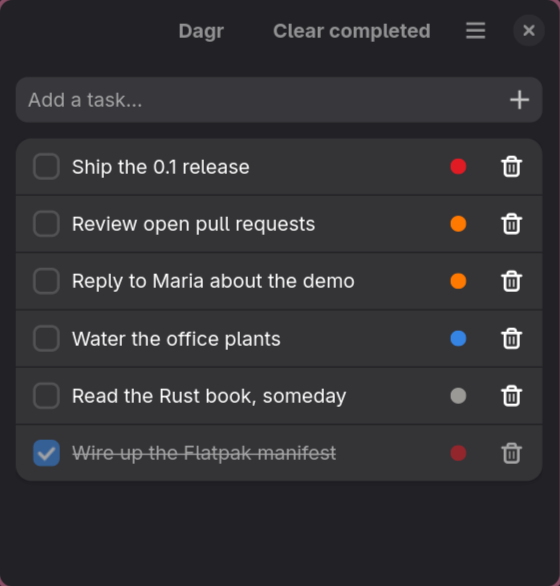
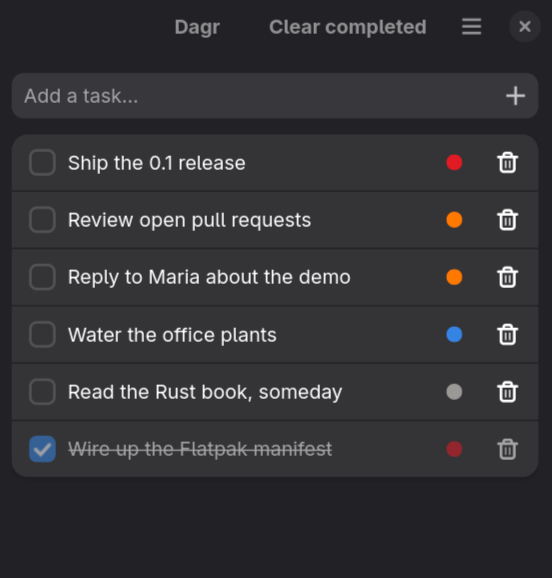
chose: SEO?

diff --git a/site/index.html b/site/index.html
@@ -3,25 +3,32 @@
 <head>
 <meta charset="UTF-8">
 <meta name="viewport" content="width=device-width, initial-scale=1.0">
-<title>dagr — a tiny, AI-scriptable task list for Linux</title>
-<meta name="description" content="Dagr is a small priority-ordered task list for Linux built with GTK 4 and libadwaita. Everything one click away, and a built-in MCP server so an AI assistant can do anything you can.">
+<title>dagr — a Linux task list with a built-in MCP server</title>
+<meta name="description" content="Dagr is a small, priority-ordered to-do app for Linux, built with GTK 4 and libadwaita. It ships a Model Context Protocol (MCP) server, so Claude, Cursor, Zed or any MCP client can read and change your tasks — add, complete, label and re-prioritise — while the window stays in sync.">
 <meta name="keywords" content="dagr, task list, todo, linux, gtk4, libadwaita, rust, gnome, mcp, model context protocol, ai tasks">
 
 <link rel="canonical" href="https://dagr.bles.nu/">
 <link rel="icon" type="image/svg+xml" href="favicon.svg">
-<link rel="apple-touch-icon" href="favicon.svg">
+<link rel="apple-touch-icon" href="apple-touch-icon.png">
 
 <meta name="theme-color" content="#0b0a1a">
 
-<meta property="og:title" content="dagr — a tiny, AI-scriptable task list for Linux">
+<meta property="og:title" content="dagr — a Linux task list with a built-in MCP server">
 <meta property="og:description" content="Priority-ordered, one click for everything, and a built-in MCP server so an assistant can do anything you can.">
 <meta property="og:url" content="https://dagr.bles.nu/">
 <meta property="og:site_name" content="dagr">
 <meta property="og:type" content="website">
+<meta property="og:locale" content="en">
+<meta property="og:image" content="https://dagr.bles.nu/share.png">
+<meta property="og:image:width" content="1200">
+<meta property="og:image:height" content="630">
+<meta property="og:image:alt" content="The Dagr window listing six tasks with colored priority dots, beside the dagr wordmark">
 
 <meta name="twitter:card" content="summary_large_image">
-<meta name="twitter:title" content="dagr — a tiny, AI-scriptable task list for Linux">
+<meta name="twitter:title" content="dagr — a Linux task list with a built-in MCP server">
 <meta name="twitter:description" content="Priority-ordered, one click for everything, and a built-in MCP server so an assistant can do anything you can.">
+<meta name="twitter:image" content="https://dagr.bles.nu/share.png">
+<meta name="twitter:image:alt" content="The Dagr window listing six tasks with colored priority dots, beside the dagr wordmark">
 
 <script type="application/ld+json">
 {
@@ -32,6 +39,21 @@
   "url": "https://dagr.bles.nu/",
   "applicationCategory": "Productivity",
   "operatingSystem": "Linux",
+  "applicationSubCategory": "Task management",
+  "softwareVersion": "0.2.0",
+  "isAccessibleForFree": true,
+  "inLanguage": ["en", "nl"],
+  "screenshot": "https://dagr.bles.nu/share.png",
+  "downloadUrl": "https://github.com/alebles/dagr/releases/latest",
+  "featureList": [
+    "Priority-ordered task list with user-defined levels",
+    "Optional colored labels, several per task",
+    "Optional task lists with a sidebar",
+    "Built-in MCP server for AI assistants",
+    "Unix socket for desktop scripting",
+    "English and Dutch",
+    "Local SQLite storage, no account and no cloud"
+  ],
   "license": "https://opensource.org/license/MIT",
   "codeRepository": "https://github.com/alebles/dagr",
   "offers": { "@type": "Offer", "price": "0", "priceCurrency": "USD" },
@@ -236,6 +258,10 @@
     transition: border-color 0.15s ease, box-shadow 0.15s ease, transform 0.15s ease;
   }
   .card:hover { border-left-color: var(--cyan); box-shadow: var(--glow-cyan); transform: translateY(-2px); }
+  .faq { display: grid; gap: 18px; margin-top: 8px; }
+  .faq h3 { margin: 0 0 6px; font-size: 1.02em; color: var(--text); }
+  .faq h3::before { content: "? "; color: var(--amber, #ffb347); }
+  .faq p { margin: 0; color: var(--muted); max-width: 72ch; }
   .card h3 { margin: 0 0 6px; font-size: 1.02em; color: var(--text); }
   .card p { margin: 0; color: var(--muted); font-size: 0.92em; line-height: 1.55; }
 
@@ -339,7 +365,8 @@ cargo run --release</pre>
 <pre><span class="comment"># the service hosts the endpoint; it outlives the window</span>
 systemctl --user enable --now dagr
 claude mcp add --transport http dagr http://127.0.0.1:7331/mcp</pre>
-  <p class="followup">Bound to localhost at <code>http://127.0.0.1:7331/mcp</code>, and switchable off in Preferences. The same service answers a Unix socket, which is how the <a href="https://github.com/alebles/dms-spotlight-tasks">launcher plugin</a> adds tasks from your desktop.</p>
+  <p class="followup">Bound to localhost at <code>http://127.0.0.1:7331/mcp</code>, and switchable off in Preferences. Any MCP client works — Claude Code, Claude Desktop, Cursor, Zed — over Streamable HTTP. The same service answers a Unix socket, which is how the <a href="https://github.com/alebles/dms-spotlight-tasks">launcher plugin</a> adds tasks from your desktop.</p>
+  <p class="followup">The twenty-one tools: <code>list_tasks</code>, <code>add_task</code>, <code>update_task</code>, <code>delete_task</code>, <code>clear_completed</code>, <code>list_priorities</code>, <code>add_priority</code>, <code>update_priority</code>, <code>reorder_priorities</code>, <code>delete_priority</code>, <code>list_labels</code>, <code>add_label</code>, <code>update_label</code>, <code>delete_label</code>, <code>list_lists</code>, <code>add_list</code>, <code>update_list</code>, <code>reorder_lists</code>, <code>delete_list</code>, <code>get_settings</code>, <code>update_settings</code>.</p>
 </section>
 
 <section id="features">
@@ -354,6 +381,24 @@ claude mcp add --transport http dagr http://127.0.0.1:7331/mcp</pre>
     <div class="card"><h3>Adjustable</h3><p>Turn priorities, labels or lists off entirely, choose the sort order, let older days outrank priority, set the default priority and list, pick the size the window opens at — all in Preferences, a page per topic.</p></div>
     <div class="card"><h3>AI-native</h3><p>A background service hosts an MCP endpoint over local HTTP, sharing one database with the window and outliving it. Anything you can do, an assistant can too.</p></div>
     <div class="card"><h3>Native &amp; private</h3><p>GTK 4 + libadwaita, following the system theme and accent. A single local SQLite file. Runs on any Linux desktop, no GNOME shell required.</p></div>
+  </div>
+</section>
+
+<section id="faq">
+  <h2 class="prompt">questions</h2>
+  <div class="faq">
+    <h3>Can an AI assistant manage my to-do list?</h3>
+    <p>Yes. Dagr runs a Model Context Protocol (MCP) server on localhost, so any MCP client — Claude Code, Claude Desktop, Cursor, Zed — can add, complete, re-prioritise, label and file your tasks. It is the same database the window uses, so changes show up in the open app within a second. Point your client at <code>http://127.0.0.1:7331/mcp</code>.</p>
+    <h3>Which to-do apps have an MCP server built in?</h3>
+    <p>Very few. Most MCP task servers are wrappers around a cloud service such as Todoist or Notion, which means an account, an API key and your tasks on someone else's machine. Dagr is a native Linux desktop app whose own background service <em>is</em> the MCP server, over a local SQLite file.</p>
+    <h3>Is my data private, and does it need an account?</h3>
+    <p>No account, no cloud, no telemetry. Everything lives in one SQLite file at <code>~/.local/share/dagr/dagr.db</code>. The MCP endpoint is bound to localhost, has no authentication because nothing outside your machine can reach it, and can be switched off in Preferences.</p>
+    <h3>How does it compare to Errands or GNOME To Do?</h3>
+    <p>Dagr is smaller and deliberately narrower. It was inspired by Errands, and shares the GTK 4 and libadwaita look, but every action is one click and there are no due dates or sub-tasks. What it adds is the MCP server and a Unix socket, so assistants and your desktop launcher can drive it. Errands has CalDAV sync today; Dagr does not, yet.</p>
+    <h3>Does it need GNOME?</h3>
+    <p>No. It is GTK 4 and libadwaita, so it follows your system light or dark style and accent colour, but it runs on any Linux desktop — it is developed on Hyprland. A Flatpak bundle is attached to every release.</p>
+    <h3>Can I use it in Dutch?</h3>
+    <p>Yes. Dagr ships English and Dutch, follows your system language, and takes an override in Preferences.</p>
   </div>
 </section>
 
@@ -373,5 +418,61 @@ claude mcp add --transport http dagr http://127.0.0.1:7331/mcp</pre>
 
 </div>
 
+<script type="application/ld+json">
+{
+  "@context": "https://schema.org",
+  "@type": "FAQPage",
+  "mainEntity": [
+    {
+      "@type": "Question",
+      "name": "Can an AI assistant manage my to-do list?",
+      "acceptedAnswer": {
+        "@type": "Answer",
+        "text": "Yes. Dagr runs a Model Context Protocol (MCP) server on localhost, so any MCP client — Claude Code, Claude Desktop, Cursor, Zed — can add, complete, re-prioritise, label and file your tasks. It is the same database the window uses, so changes show up in the open app within a second. Point your client at http://127.0.0.1:7331/mcp."
+      }
+    },
+    {
+      "@type": "Question",
+      "name": "Which to-do apps have an MCP server built in?",
+      "acceptedAnswer": {
+        "@type": "Answer",
+        "text": "Very few. Most MCP task servers are wrappers around a cloud service such as Todoist or Notion, which means an account, an API key and your tasks on someone else's machine. Dagr is a native Linux desktop app whose own background service is the MCP server, over a local SQLite file."
+      }
+    },
+    {
+      "@type": "Question",
+      "name": "Is my data private, and does it need an account?",
+      "acceptedAnswer": {
+        "@type": "Answer",
+        "text": "No account, no cloud, no telemetry. Everything lives in one SQLite file at ~/.local/share/dagr/dagr.db. The MCP endpoint is bound to localhost, has no authentication because nothing outside your machine can reach it, and can be switched off in Preferences."
+      }
+    },
+    {
+      "@type": "Question",
+      "name": "How does it compare to Errands or GNOME To Do?",
+      "acceptedAnswer": {
+        "@type": "Answer",
+        "text": "Dagr is smaller and deliberately narrower. It was inspired by Errands, and shares the GTK 4 and libadwaita look, but every action is one click and there are no due dates or sub-tasks. What it adds is the MCP server and a Unix socket, so assistants and your desktop launcher can drive it. Errands has CalDAV sync today; Dagr does not, yet."
+      }
+    },
+    {
+      "@type": "Question",
+      "name": "Does it need GNOME?",
+      "acceptedAnswer": {
+        "@type": "Answer",
+        "text": "No. It is GTK 4 and libadwaita, so it follows your system light or dark style and accent colour, but it runs on any Linux desktop — it is developed on Hyprland. A Flatpak bundle is attached to every release."
+      }
+    },
+    {
+      "@type": "Question",
+      "name": "Can I use it in Dutch?",
+      "acceptedAnswer": {
+        "@type": "Answer",
+        "text": "Yes. Dagr ships English and Dutch, follows your system language, and takes an override in Preferences."
+      }
+    }
+  ]
+}
+</script>
 </body>
 </html>
